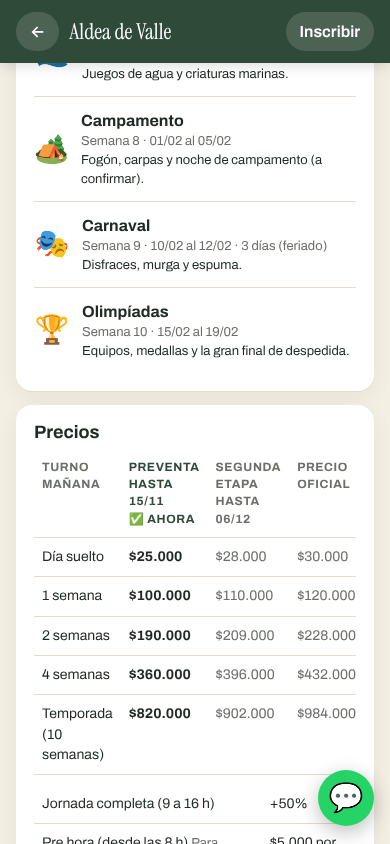
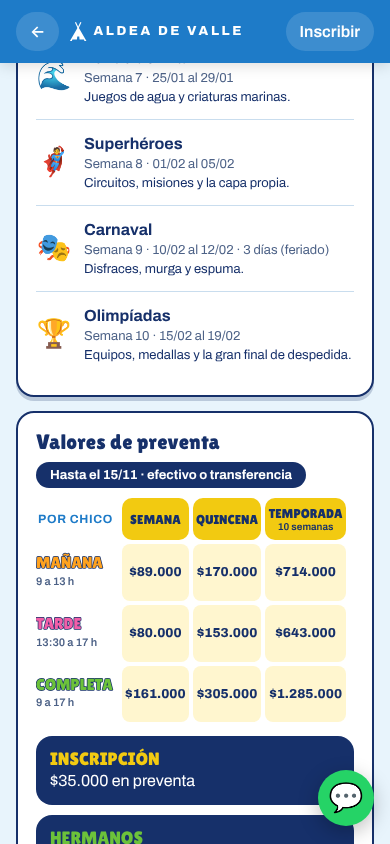
Escuela de Verano: valores y estética del folleto 2026-27
- Valores de preventa del folleto por turno (mañana, tarde y completa) en
  semana, quincena y temporada; inscripción $35.000 ($50.000 desde el
  16/11); hermanos 20% y 30%; seña = inscripción + 50%.
- Pre-hora, post-hora (solo mañana) y almuerzo (solo jornada completa).
- La seña congela el precio: sin seña al 16/11 pasa al precio regular.
- En preventa la transferencia vale igual que el efectivo.
- Estética de la campaña: azul pileta, tarjetas con borde marino, VERANO
  de colores, Lilita One y Archivo; Aldea de Valle × GLORIN y show de los
  viernes.

Claude-Session: https://claude.ai/code/session_01Pv3htfUX7DsSfM44mpFigY

diff --git a/escuela-verano/Index.html b/escuela-verano/Index.html
@@ -6,10 +6,14 @@
 <meta name="viewport" content="width=device-width, initial-scale=1, maximum-scale=1">
 <link rel="preconnect" href="https://fonts.googleapis.com">
 <link rel="preconnect" href="https://fonts.gstatic.com" crossorigin>
-<link href="https://fonts.googleapis.com/css2?family=Baloo+2:wght@600;700;800&family=Nunito:wght@400;600;700;800&display=swap" rel="stylesheet">
+<link href="https://fonts.googleapis.com/css2?family=Lilita+One&family=Archivo:wght@400;500;600;700;800&display=swap" rel="stylesheet">
 <style>
-  :root{ --f-titulo:'Baloo 2','Nunito',system-ui,sans-serif; --f-texto:'Nunito',system-ui,sans-serif; --w-titulo:700;
-         --c1:#2F4A38; --c2:#F2CA11; --crema:#F4EFE3; --tinta:#1F2A22; --gris:#6B6F68; --linea:#E3DCCB; --ok:#2E8B57; --mal:#C0392B; --aviso:#E08A00; --wa:#25D366; --r:16px; }
+  /* Estética de la campaña "Escuela de Verano 2026-27": azul pileta, azul marino, tarjetas blancas con borde marino
+     y los colores de VERANO (amarillo, coral, verde, naranja, rosa). Títulos en Lilita One, texto en Archivo. */
+  :root{ --f-titulo:'Lilita One','Archivo',system-ui,sans-serif; --f-texto:'Archivo',system-ui,sans-serif; --w-titulo:400;
+         --c1:#1E7BC8; --c2:#F2CA11; --marino:#16306A; --pileta1:#5CB9EE; --pileta2:#2B8BD6;
+         --amarillo:#F2CA11; --coral:#FF6B5B; --verde:#6CC23A; --naranja:#FFA21F; --rosa:#F25FA8;
+         --crema:#E8F4FC; --tinta:#16306A; --gris:#4D6287; --linea:#C9DDEE; --ok:#23884F; --mal:#C0392B; --aviso:#C77600; --wa:#25D366; --r:18px; }
   *{box-sizing:border-box}
   html,body{margin:0;background:var(--crema);color:var(--tinta);font:16px/1.45 var(--f-texto);-webkit-font-smoothing:antialiased}
   body{padding-bottom:84px}
@@ -24,12 +28,14 @@
   .top button,.top select{background:rgba(255,255,255,.14);color:#fff;border:0;border-radius:999px;padding:8px 14px;font-weight:600;cursor:pointer}
   .top select{max-width:150px}
   .top select option{color:#000}
-  .btn{display:inline-flex;align-items:center;justify-content:center;gap:8px;border:0;border-radius:999px;padding:13px 20px;font-weight:700;cursor:pointer;background:var(--c1);color:#fff;text-decoration:none;transition:transform .08s,opacity .15s}
+  .btn{display:inline-flex;align-items:center;justify-content:center;gap:8px;border:2px solid var(--marino);border-radius:999px;padding:12px 20px;font-weight:700;cursor:pointer;background:var(--c1);color:#fff;text-decoration:none;transition:transform .08s,opacity .15s;box-shadow:0 3px 0 var(--marino)}
+  .btn:active{box-shadow:0 1px 0 var(--marino);transform:translateY(2px)}
   .btn:active{transform:scale(.97)}
   .btn[disabled]{opacity:.5;pointer-events:none}
   .btn.acento{background:var(--c2);color:var(--c1)}
-  .btn.claro{background:#fff;color:var(--c1);border:1.5px solid var(--linea)}
-  .btn.wa{background:var(--wa);color:#fff}
+  .btn.claro{background:#fff;color:var(--marino);border:2px solid var(--marino)}
+  .btn.xs,.btn.sm{box-shadow:0 2px 0 var(--marino)}
+  .btn.wa{background:var(--wa);color:#fff;border-color:#14753a;box-shadow:0 3px 0 #14753a}
   .btn.mal{background:var(--mal)}
   .btn.full{width:100%}
   .btn.sm{padding:8px 14px;font-size:14px}
@@ -37,8 +43,8 @@
   .fila{display:flex;gap:10px;flex-wrap:wrap;align-items:center}
   .fila>*{flex:0 0 auto}
   .crece{flex:1 1 auto!important}
-  .card{background:#fff;border-radius:var(--r);padding:18px;box-shadow:0 1px 0 var(--linea),0 6px 22px rgba(31,42,34,.06);margin:14px 0}
-  .card h3{font-size:18px}
+  .card{background:#fff;border-radius:var(--r);padding:18px;border:2.5px solid var(--marino);box-shadow:0 4px 0 rgba(22,48,106,.22);margin:14px 0}
+  .card h3{font:var(--w-titulo) 21px/1.1 var(--f-titulo);letter-spacing:.01em}
   .muted{color:var(--gris)}
   .chico{font-size:13px}
   .chip{display:inline-flex;align-items:center;gap:4px;padding:4px 10px;border-radius:999px;background:var(--crema);font-size:13px;font-weight:600;max-width:100%;overflow-wrap:anywhere}
@@ -57,11 +63,43 @@
   .seg{display:flex;background:#fff;border:1.5px solid var(--linea);border-radius:999px;padding:4px;gap:4px}
   .seg button{flex:1;border:0;background:transparent;padding:9px 12px;border-radius:999px;font-weight:600;cursor:pointer;color:var(--gris)}
   .seg button.on{background:var(--c1);color:#fff}
-  .hero{background:var(--c1);color:#fff;padding:40px 16px 34px;position:relative;overflow:hidden}
-  .hero h1{font:var(--w-titulo) clamp(38px,9vw,64px)/1 var(--f-titulo)}
-  .hero h1 em{color:var(--c2)}
+  .hero{background:repeating-radial-gradient(circle at 85% 115%,rgba(255,255,255,.08) 0 26px,rgba(255,255,255,0) 26px 52px),linear-gradient(180deg,color-mix(in srgb,var(--c1) 70%,#fff),var(--c1));color:#fff;padding:40px 16px 34px;position:relative;overflow:hidden}
+  .hero h1{font:var(--w-titulo) clamp(38px,9vw,64px)/1 var(--f-titulo);color:#fff;-webkit-text-stroke:2px var(--marino);paint-order:stroke fill;text-shadow:0 4px 0 var(--marino);letter-spacing:.01em}
+  .hero h1 em{color:var(--c2);font-style:normal}
+  .titulo-borde{font:var(--w-titulo) 30px/1.05 var(--f-titulo);color:#fff;-webkit-text-stroke:2px var(--marino);paint-order:stroke fill;text-shadow:0 3px 0 var(--marino)}
+  .ceja{font:700 12px var(--f-texto);letter-spacing:.24em;text-transform:uppercase}
+  .verano{display:inline-flex;gap:0;font:var(--w-titulo) clamp(54px,15vw,96px)/1 var(--f-titulo);-webkit-text-stroke:3px var(--marino);paint-order:stroke fill;text-shadow:0 5px 0 var(--marino)}
+  .verano span:nth-child(1){color:var(--amarillo)}.verano span:nth-child(2){color:var(--coral)}.verano span:nth-child(3){color:#fff}
+  .verano span:nth-child(4){color:var(--verde)}.verano span:nth-child(5){color:var(--naranja)}.verano span:nth-child(6){color:var(--rosa)}
+  .temporada-pill{display:inline-block;background:var(--marino);color:#fff;border-radius:999px;padding:6px 18px;font:var(--w-titulo) 22px var(--f-titulo)}
+  .pildora{display:inline-block;background:#fff;color:var(--marino);border:2.5px solid var(--marino);border-radius:999px;padding:6px 14px;font:var(--w-titulo) 15px var(--f-titulo);text-transform:uppercase;letter-spacing:.02em}
+  .pildora.si{background:var(--amarillo)}
+  .turno-et{font:var(--w-titulo) 20px/1 var(--f-titulo);text-transform:uppercase;-webkit-text-stroke:1.5px var(--marino);paint-order:stroke fill}
+  .franja{border:2.5px solid var(--marino);border-radius:16px;padding:12px 16px;margin:12px 0;color:#fff;box-shadow:0 4px 0 rgba(22,48,106,.22)}
+  .franja.coral{background:var(--coral)}.franja.marino{background:var(--marino)}
+  .franja b.t{font:var(--w-titulo) 22px var(--f-titulo);text-transform:uppercase;-webkit-text-stroke:1.2px var(--marino);paint-order:stroke fill;margin-right:8px}
+  .info2{display:grid;grid-template-columns:1fr 1fr;gap:10px}
+  @media(max-width:420px){.info2{grid-template-columns:1fr}}
+  .info2>div{background:var(--marino);color:#fff;border-radius:16px;padding:12px 14px}
+  .info2 b{display:block;font:var(--w-titulo) 18px var(--f-titulo);text-transform:uppercase;color:var(--amarillo)}
+  table.precios{width:100%;border-collapse:separate;border-spacing:4px;font-variant-numeric:tabular-nums;margin:0 -4px}
+  table.precios th{background:var(--amarillo);color:var(--marino);border-radius:10px;padding:8px 2px;font:var(--w-titulo) 13px var(--f-titulo);text-transform:uppercase}
+  table.precios th small{display:block;font:600 10px var(--f-texto);text-transform:none}
+  table.precios td{background:#FFF6CF;border-radius:8px;padding:11px 2px;text-align:center;font-weight:800;color:var(--marino);font-size:13px;white-space:nowrap}
+  table.precios .turno-et{font-size:16px}
+  table.precios td.et{background:none;text-align:left;padding-left:0}
+  table.precios td.et small{display:block;font-weight:600;font-size:11px;color:var(--gris)}
+  .badge-preventa{margin:22px auto -6px;width:156px;height:156px;border-radius:50%;background:var(--amarillo);border:3px solid var(--marino);color:var(--marino);display:flex;flex-direction:column;align-items:center;justify-content:center;text-align:center;transform:rotate(-8deg);box-shadow:0 5px 0 var(--marino)}
+  .badge-preventa b{font:var(--w-titulo) 24px/1 var(--f-titulo)}
+  .badge-preventa i{font:var(--w-titulo) 34px/1 var(--f-titulo);font-style:normal;color:var(--coral);-webkit-text-stroke:1.5px var(--marino);paint-order:stroke fill}
+  .badge-preventa small{font:700 10px var(--f-texto);text-transform:uppercase;letter-spacing:.04em}
+  .pasos-res{display:grid;gap:10px;counter-reset:p}
+  .pasos-res div{display:flex;gap:12px;align-items:center;background:#fff;border:2.5px solid var(--marino);border-radius:14px;padding:10px 12px;font-weight:700}
+  .pasos-res span{flex:0 0 38px;height:38px;border-radius:50%;border:2.5px solid var(--marino);display:flex;align-items:center;justify-content:center;font:var(--w-titulo) 20px var(--f-titulo)}
+  .logo-aldea{display:inline-flex;align-items:center;gap:.45em;font:800 1em/1 var(--f-texto);letter-spacing:.2em;white-space:nowrap}
+  .logo-aldea svg{height:1.6em;width:auto;flex:0 0 auto}
   .hero p{max-width:560px;opacity:.9;font-size:17px}
-  .sol{position:absolute;right:-90px;top:-90px;width:200px;height:200px;border-radius:50%;background:var(--c2);opacity:.85}
+  .sol{display:none}
   .sedes{display:grid;grid-template-columns:1fr 1fr;gap:14px;margin-top:-22px;position:relative}
   @media(max-width:640px){.sedes{grid-template-columns:1fr}}
   .sede{background:#fff;border-radius:20px;overflow:hidden;box-shadow:0 10px 30px rgba(0,0,0,.08);display:flex;flex-direction:column}
@@ -172,6 +210,7 @@ const LOGO_ALDEA = '<svg viewBox="0 0 100 100" role="img" aria-label="Aldea de V
 const LOGOS_ANCHOS = {
[1 lines of base64/hex data omitted]
 };
+const CARPA = '<svg viewBox="20 14 60 68" aria-hidden="true"><path d="M50 33 L77 79 L70.5 79 L69 74.5 L54.5 74.5 L53.5 65 L47 65 L46 74.5 L31 74.5 L29.5 79 L23 79 Z" fill="currentColor"/><path d="M39.4 18.6 L42.9 17 L52.5 38 L49 39.6 Z" fill="currentColor"/><path d="M60.6 18.6 L57.1 17 L47.5 38 L51 39.6 Z" fill="currentColor"/></svg>';
[1 lines of base64/hex data omitted]
 const LS = {
   get(k, d) { try { const v = localStorage.getItem('ev_' + k); return v == null ? d : JSON.parse(v); } catch (e) { return d; } },
@@ -197,11 +236,11 @@ function logoSede(id, tam, claro) {
   const ancho = !s.logo && LOGOS_ANCHOS[id];
   if (ancho) return `<img class="logo-ancho" src="${claro ? ancho.color : ancho.blanco}" alt="Logo de ${esc(s.nombre)}" style="height:${tam || 30}px">`;
   if (s.logo) return `<span class="logo"${st}><img src="${esc(s.logo)}" alt="Logo de ${esc(s.nombre)}"></span>`;
-  if (id === 'aldea') return `<span class="logo"${st}>${LOGO_ALDEA}</span>`;
+  if (id === 'aldea') return `<span class="logo-aldea" style="color:${claro ? 'var(--marino)' : '#fff'};font-size:${Math.round((tam || 30) * 0.42)}px">${CARPA}<span>ALDEA DE VALLE</span></span>`;
   const ini = s.nombre.split(' ').filter(w => w.length > 2).map(w => w[0]).join('').slice(0, 2).toUpperCase();
   return `<span class="logo logo-ini"${(st ? st.slice(0, -1) + ';' : ' style="') + 'background:' + s.color + ';color:' + s.acento + (tam ? ';font-size:' + Math.round(tam / 2.6) + 'px' : '')}">${esc(ini)}</span>`;
 }
-const nombreBarra = id => LOGOS_ANCHOS[id] && !(sede(id) || {}).logo ? '' : esc(sede(id).nombre);   // si el logo ya dice el nombre, no se repite
+const nombreBarra = id => (LOGOS_ANCHOS[id] || id === 'aldea') && !(sede(id) || {}).logo ? '' : esc(sede(id).nombre);   // si el logo ya dice el nombre, no se repite
 function pieGlorin() {
   return PUB.glorin ? `<a class="glorin" href="${esc(PUB.glorin.url)}" target="_blank" rel="noopener"><img src="${LOGO_GLORIN}" alt="GLORIN Animaciones"><span>¿Cumpleaños o evento?<br><b>${esc(PUB.glorin.detalle)}</b></span></a>` : '';
 }
@@ -239,7 +278,7 @@ async function conBoton(btn, fn) {
 }
 function tema(id) {
   const s = id && sede(id);
-  document.documentElement.style.setProperty('--c1', s ? s.color : '#2F4A38');
+  document.documentElement.style.setProperty('--c1', s ? s.color : '#1E7BC8');
   document.documentElement.style.setProperty('--c2', s ? s.acento : '#F2CA11');
 }
 function copiar(txt) { (navigator.clipboard ? navigator.clipboard.writeText(txt) : Promise.reject()).then(() => toast('Copiado ✓')).catch(() => prompt('Copiá esto:', txt)); }
@@ -277,7 +316,13 @@ function arrancar() {
 
 /* ================= FAMILIAS · público ================= */
 function etapaActual(s) { const E = s.precios.etapas; return E.find(e => !e.hasta || PUB.hoy <= e.hasta) || E[E.length - 1]; }
-function precioDesde(s) { return etapaActual(s).semanas[1]; }
+function precioDesde(s) { const T = etapaActual(s).turnos; return Math.min(...Object.keys(T).map(k => T[k].semana)); }
+const descHermanos = s => { const h = s.precios.descuentoHermanos; return Array.isArray(h) ? h : [0, h || 0]; };
+function tablaPrecios(s, E) {
+  return `<div class="scroll-x"><table class="precios"><tr><th style="background:none;text-align:left;font:700 12px var(--f-texto);letter-spacing:.06em;color:var(--c1)">POR CHICO</th><th>Semana</th><th>Quincena</th><th>Temporada<small>${s.semanas.length} semanas</small></th></tr>
+    ${s.precios.turnos.map(t => { const v = E.turnos[t.id] || {}; return `<tr><td class="et"><span class="turno-et" style="color:${t.color}">${esc(t.nombre)}</span><small>${esc(t.horario)}</small></td>
+      <td>${pesos(v.semana)}</td><td>${pesos(v.quincena)}</td><td>${pesos(v.temporada)}</td></tr>`; }).join('')}</table></div>`;
+}
 
 function vInicio() { vElegirSede(); }
 function vElegirSede(destino) {
@@ -285,12 +330,14 @@ function vElegirSede(destino) {
   const s = PUB.sedes;
   pintar(`
   <header class="top"><div class="marca">☀ ${esc(PUB.marca)} <small>${esc(PUB.temporada)}</small></div></header>
-  <section class="hero" style="padding-bottom:46px"><div class="sol"></div><div class="wrap" style="position:relative">
-    <h1>¿De qué escuela<br><em>de verano sos?</em></h1>
-    <p>${destino === 'inscribir' ? 'Elegí dónde querés inscribir a tu hijo.' : 'Elegí tu sede para entrar. Desde ahí sigue cada uno: familias, equipo y administración.'}</p>
+  <section class="hero" style="padding-bottom:50px;text-align:center"><div class="wrap" style="position:relative">
+    <div class="titulo-borde" style="font-size:clamp(30px,8vw,46px)">ESCUELA DE</div>
+    <div class="verano" aria-label="Verano"><span>V</span><span>E</span><span>R</span><span>A</span><span>N</span><span>O</span></div>
+    <div style="margin-top:10px"><span class="temporada-pill">${esc(PUB.temporada.replace('-20', '–'))}</span></div>
+    <p style="margin:14px auto 0;font-weight:700">${destino === 'inscribir' ? '¿En qué escuela querés inscribir a tu hijo?' : '¿De qué escuela de verano sos?'}</p>
   </div></section>
   <div class="wrap">
-    <div class="eleccion">${s.map(x => `<button style="--c:${x.color}" onclick="elegirSede('${x.id}','${destino || ''}')">${logoSede(x.id, 72, true)}
+    <div class="eleccion">${s.map(x => `<button style="--c:${x.color}" onclick="elegirSede('${x.id}','${destino || ''}')">${x.id === 'aldea' && !x.logo ? `<span class="logo" style="width:72px;height:72px;background:${x.color};color:#fff;padding:13px;border:2.5px solid var(--marino)">${CARPA}</span>` : logoSede(x.id, 72, true)}
       <span><b>${esc(x.nombre)}</b><span class="muted chico">${esc(x.direccion)}</span></span><span class="flecha" aria-hidden="true">→</span></button>`).join('')}</div>
   </div>
   <div class="pie">${pieGlorin()}</div>`);
@@ -302,14 +349,19 @@ function vPuerta(id) {
   const E = etapaActual(s);
   pintar(`
   <header class="top">${logoSede(id)}<div class="marca">${nombreBarra(id)}</div><button onclick="vElegirSede()">Cambiar</button></header>
-  <section class="hero" style="padding-bottom:28px"><div class="sol"></div><div class="wrap" style="position:relative;display:flex;gap:16px;align-items:center">
-    ${LOGOS_ANCHOS[id] && !s.logo ? `<div>${logoSede(id, 120)}<p style="margin:10px 0 0">` : `${logoSede(id, 76)}<div><h1 style="font-size:clamp(34px,8vw,56px)">${esc(s.nombre)}</h1><p style="margin:4px 0 0">`}Escuela de verano · del ${fCorta(s.inicio)} al ${fCorta(s.fin)}</p></div>
+  <section class="hero" style="padding-bottom:${E.hasta ? 70 : 30}px"><div class="wrap" style="position:relative">
+    <div class="fila" style="align-items:center;gap:8px">${LOGOS_ANCHOS[id] && !s.logo ? logoSede(id, 90) : logoSede(id, 32)}${s.conGlorin ? `<b style="font-size:18px">×</b><img src="${LOGO_GLORIN}" alt="GLORIN Animaciones" style="width:92px">` : ''}</div>
+    <h1 style="margin-top:18px">UN VERANO<br>EN ${esc((s.nombre.split(' ').pop() === 'Valle' ? 'Aldea' : s.nombre.split(' ').pop()).toUpperCase())}</h1>
+    <p style="margin:6px 0 0;font-weight:700">${fLarga(s.inicio).replace(/^\S+ /, '')} al ${fLarga(s.fin).replace(/^\S+ /, '')} · de ${PUB.edadMin} a ${PUB.edadMax} años</p>
+    ${s.conGlorin ? '<p class="chico" style="margin:2px 0 0;font-weight:600;opacity:.95">Aldea de Valle × GLORIN Animaciones</p>' : ''}
+    ${E.hasta ? `<div class="badge-preventa"><b>${esc(E.nombre.toUpperCase())}</b><small>hasta el ${fCorta(E.hasta)}</small>${(s.precios.etapas.length > 1 && E === s.precios.etapas[0]) ? '<i>−15%</i>' : ''}<small>+ inscripción ${pesos(E.inscripcion)}</small></div>` : ''}
   </div></section>
   <div class="wrap">
     <div class="card" style="margin-top:16px;border:2px solid var(--c1)">
       <h2 class="serif" style="font-size:30px;margin:0">Inscribí a tu hijo</h2>
-      <p class="muted" style="margin:6px 0 12px">En 4 pasos desde el celular. Ves el precio al instante y pagás la seña en efectivo (más barato), por transferencia o con Mercado Pago.</p>
-      ${E.hasta ? `<p class="chip aviso" style="margin:0 0 12px">⏰ ${esc(E.nombre)}: precios hasta el ${fCorta(E.hasta)}</p>` : ''}
+      ${(s.actividades || []).length ? `<div class="fila" style="gap:6px;margin:10px 0 4px">${s.actividades.map((a, i) => `<span class="pildora ${i ? '' : 'si'}" style="font-size:13px;padding:4px 10px">${esc(a)}</span>`).join('')}</div>` : ''}
+      ${s.destacado ? `<div class="franja coral"><b class="t">${esc(s.destacado[0])}</b>${esc(s.destacado[1])}</div>` : ''}
+      <p class="muted" style="margin:6px 0 12px">Un formulario y listo: ves el precio al instante y reservás con la inscripción + la seña del ${s.precios.senaPct}%.${E.hasta ? ' <b>La seña congela tu precio de ' + esc(E.nombre.toLowerCase()) + '.</b>' : ''}</p>
       <button class="btn full acento" onclick="empezar('${id}')">Inscribir a mi hijo</button>
     </div>
     <h2 class="serif" style="font-size:30px;margin:26px 0 10px">¿Quién sos?</h2>
@@ -343,7 +395,7 @@ function vSede(id) {
   pintar(`
   <header class="top"><button onclick="vPuerta('${id}')">←</button>${logoSede(id)}<div class="marca">${nombreBarra(id)}</div><button onclick="empezar('${id}')">Inscribir</button></header>
   <section class="hero" style="padding-bottom:26px"><div class="sol"></div><div class="wrap" style="position:relative">
-    <h1>${esc(s.nombre)}</h1><p>${esc(s.bajada)}</p>
+    <div class="ceja">Escuela de verano ${esc(PUB.temporada.replace('-20', '–'))}</div><h1 style="margin-top:8px">${esc(s.nombre.toUpperCase())}</h1><p>${esc(s.bajada)}</p>
     <p class="chico">📍 ${esc(s.direccion)}<br>📅 Del ${fLarga(s.inicio)} al ${fLarga(s.fin)} · lunes a viernes</p>
     <div class="fila"><button class="btn acento" onclick="empezar('${id}')">Inscribirme</button>
     <a class="btn wa" href="${wa(s.whatsapp, '¡Hola! Quiero consultar por la escuela de verano de ' + s.nombre + '.')}" target="_blank">💬 WhatsApp</a></div>
@@ -363,23 +415,24 @@ function vSede(id) {
         ${w.tematica && w.tematica.descripcion ? `<div class="chico">${esc(w.tematica.descripcion)}</div>` : ''}</div>
         ${w.hasta < hoy ? '<span class="chip">Terminó</span>' : ''}</div>`).join('')}
     </div>
-    <div class="card"><h3>Precios</h3>
-      ${(() => { const EA = etapaActual(s), vis = P.etapas.filter(e => !e.hasta || e.hasta >= hoy), nS = s.semanas.length;
-        const fila = (t, f) => `<tr><td>${t}</td>${vis.map(e => `<td class="derecha" style="${e === EA ? 'font-weight:700' : 'color:var(--gris)'}">${pesos(f(e))}</td>`).join('')}</tr>`;
-        return `<div class="scroll-x"><table class="t"><tr><th>Turno mañana</th>${vis.map(e => `<th class="derecha" style="${e === EA ? 'color:var(--c1)' : ''}">${esc(e.nombre)}${e.hasta ? '<br>hasta ' + fCorta(e.hasta) : ''}${e === EA ? '<br>✅ ahora' : ''}</th>`).join('')}</tr>
-          ${fila('Día suelto', e => e.dia)}${[1, 2, 4].map(n => fila(n + (n > 1 ? ' semanas' : ' semana'), e => e.semanas[n])).join('')}${fila('Temporada (' + nS + ' semanas)', e => e.semanas[nS] || e.semanas[e.semanas.length - 1])}</table></div>`; })()}
-      <table class="t" style="margin-top:10px">
-        ${P.turnos.filter(t => t.factor !== 1).map(t => `<tr><td>${esc(t.nombre)}</td><td class="derecha">+${Math.round((t.factor - 1) * 100)}%</td></tr>`).join('')}
-        ${P.extras.map(e => `<tr><td>${esc(e.nombre)} <span class="muted chico">${esc(e.detalle || '')}</span></td><td class="derecha">${pesos(e.precioDia)} por día</td></tr>`).join('')}
-      </table>
-      <div class="fila" style="margin-top:12px">
-        ${P.descuentoHermanos ? `<span class="chip ok">👫 Hermanos ${P.descuentoHermanos}% off</span>` : ''}
-        ${P.descuentoRenovacion ? `<span class="chip ok">🔁 Renovando ${P.descuentoRenovacion}% off</span>` : ''}
-        ${etapaActual(s).hasta ? `<span class="chip aviso">⏰ ${esc(etapaActual(s).nombre)}: este precio vale hasta el ${fCorta(etapaActual(s).hasta)}</span>` : ''}
+    <div class="card"><h3>${etapaActual(s).hasta ? 'Valores de ' + esc(etapaActual(s).nombre.toLowerCase()) : 'Valores'}</h3>
+      ${etapaActual(s).hasta ? `<p style="margin:0 0 6px"><span class="temporada-pill" style="font:700 13px var(--f-texto);padding:6px 14px">Hasta el ${fCorta(etapaActual(s).hasta)} · efectivo${PUB.recargo ? '' : ' o transferencia'}</span></p>` : ''}
+      ${tablaPrecios(s, etapaActual(s))}
+      <div class="info2" style="margin-top:10px">
+        <div><b>Inscripción</b>${pesos(etapaActual(s).inscripcion)}${etapaActual(s).hasta ? ' en ' + esc(etapaActual(s).nombre.toLowerCase()) : ''}</div>
+        <div><b style="color:var(--verde)">Hermanos</b>${descHermanos(s).slice(1).map((p, i) => p + '% ' + (i ? 'del ' + (i + 2) + '.º en adelante' : 'al 2.º')).join(' · ')}</div>
       </div>
-      <p class="banner" style="margin:12px 0 8px">💵 <b>Precios en efectivo.</b>${PUB.recargo ? ` Por transferencia o Mercado Pago: +${PUB.recargo}%.` : ''}</p>
-      <p class="muted chico">Los días sueltos nunca cuestan más que la semana completa. Se reserva el lugar con una seña del ${P.senaPct}%.</p>
-      <button class="btn full" onclick="empezar('${id}')">Calcular mi presupuesto</button>
+      ${P.extras.map(e => `<div class="franja marino" style="display:flex;justify-content:space-between;gap:10px;flex-wrap:wrap"><b style="font:var(--w-titulo) 17px var(--f-titulo);text-transform:uppercase;color:var(--rosa)">${esc(e.nombre)}</b><span>${e.precioSemana ? 'desde ' + pesos(e.precioSemana) + ' por semana' : pesos(e.precioDia) + ' por día'}${e.turnos ? ' · ' + e.turnos.map(t => (P.turnos.find(x => x.id === t) || {}).nombre).join(' / ').toLowerCase() : ''}</span></div>`).join('')}
+      ${etapaActual(s).hasta && P.etapas[P.etapas.indexOf(etapaActual(s)) + 1] ? `<div class="franja coral" style="text-align:center"><b class="t" style="display:block;margin:0">Desde el ${fCorta(sumarDias(etapaActual(s).hasta, 1))} los valores aumentan</b>y la inscripción pasa a ${pesos(P.etapas[P.etapas.indexOf(etapaActual(s)) + 1].inscripcion)}</div>` : ''}
+      ${PUB.recargo ? `<p class="banner" style="margin:12px 0 8px">💵 <b>Precios en efectivo.</b> Por transferencia o Mercado Pago: +${PUB.recargo}%.</p>` : ''}
+      <p class="muted chico">Los días sueltos nunca cuestan más que la semana completa.</p>
+    </div>
+    <div class="card"><h3>Cómo reservar</h3>
+      <div class="pasos-res"><div><span style="background:var(--amarillo)">1</span>Completá el formulario de inscripción.</div>
+        <div><span style="background:var(--naranja)">2</span>Pagá la inscripción y la seña del ${P.senaPct}%${etapaActual(s).hasta ? ' antes del ' + fCorta(etapaActual(s).hasta) : ''}.</div>
+        <div><span style="background:var(--verde)">3</span>Aboná el saldo antes de empezar.</div></div>
+      ${etapaActual(s).hasta ? `<div class="franja marino"><b style="font:var(--w-titulo) 18px var(--f-titulo);color:var(--amarillo);display:block">LA SEÑA CONGELA TU PRECIO</b>Queda el valor de ${esc(etapaActual(s).nombre.toLowerCase())} del paquete reservado. Si después sumás semanas, se pagan al valor vigente.</div>` : ''}
+      <button class="btn full acento" style="margin-top:8px" onclick="empezar('${id}')">Inscribite acá</button>
     </div>
     <div class="card"><h3>¿Todavía no te decidís?</h3>
       <p class="muted">Dejanos tu mail y te avisamos temáticas, novedades y cuándo se llenan los cupos.</p>
@@ -410,13 +463,21 @@ function htmlPlan() {
       <div class="dias">${dias.map(d => { const ok = w.dias.includes(d) && d >= hoy; const on = p.dias.includes(d);
         return `<button ${ok ? '' : 'disabled'} class="${on ? 'on' : ''}" onclick="plTogg('dias','${d}')">${DSEM[fecha(d).getDay()]}<br>${fecha(d).getDate()}</button>`; }).join('')}</div></div>`;
   }).join('');
+  const E = etapaActual(s), T = s.precios.turnos;
+  if (!T.some(t => t.id === p.turno)) p.turno = T[0].id;
+  const extrasOk = e => !e.turnos || e.turnos.includes(p.turno);
+  p.extras = p.extras.filter(id => extrasOk(s.precios.extras.find(e => e.id === id) || {}));
   return `
+    <label style="margin-top:0">Horario</label>
+    <div class="fila" style="gap:8px">${T.map(t => { const v = E.turnos[t.id] || {}; return `<button class="opcion ${p.turno === t.id ? 'on' : ''}" style="flex:1 1 100px;margin:0;flex-direction:column;align-items:center;gap:2px;text-align:center" onclick="plSet('turno','${t.id}')">
+      <span class="turno-et" style="color:${t.color}">${esc(t.nombre)}</span><span class="chico" style="font-weight:700">${esc(t.horario)}</span><span class="muted chico">semana ${pesos(v.semana)}</span></button>`; }).join('')}</div>
+    <label>¿Cuándo viene?</label>
     <div class="seg"><button class="${p.modalidad === 'semanas' ? 'on' : ''}" onclick="plSet('modalidad','semanas')">Por semana</button><button class="${p.modalidad === 'dias' ? 'on' : ''}" onclick="plSet('modalidad','dias')">Días sueltos</button></div>
     ${p.modalidad === 'semanas' ? `<div class="fila" style="margin-top:10px"><button class="btn xs claro" onclick="plTodas()">Elegir todas las que quedan</button>${p.semanas.length ? `<button class="btn xs claro" onclick="plSet('semanas',[])">Borrar</button>` : ''}</div>` : `<p class="muted chico">Tocá los días que viene. Si elegís muchos de una misma semana, nunca pagás más que la semana completa.</p>`}
     ${semanasHtml}
-    <label>Horario</label>
-    ${s.precios.turnos.map(t => `<label class="opcion ${p.turno === t.id ? 'on' : ''}"><input type="radio" name="turno" ${p.turno === t.id ? 'checked' : ''} onchange="plSet('turno','${t.id}')"><div><b>${esc(t.nombre)}</b>${t.factor !== 1 ? `<div class="muted chico">+${Math.round((t.factor - 1) * 100)}%</div>` : ''}</div></label>`).join('')}
-    ${s.precios.extras.length ? '<label>Extras</label>' + s.precios.extras.map(e => `<label class="opcion ${p.extras.includes(e.id) ? 'on' : ''}"><input type="checkbox" ${p.extras.includes(e.id) ? 'checked' : ''} onchange="plTogg('extras','${e.id}')"><div><b>${esc(e.nombre)}</b> · ${pesos(e.precioDia)} por día<div class="muted chico">${esc(e.detalle || '')}</div></div></label>`).join('') : ''}`;
+    ${s.precios.extras.length ? '<label>Opcionales</label>' + s.precios.extras.map(e => { const ok = extrasOk(e);
+      return `<label class="opcion ${p.extras.includes(e.id) ? 'on' : ''} ${ok ? '' : 'off'}"><input type="checkbox" ${p.extras.includes(e.id) ? 'checked' : ''} ${ok ? '' : 'disabled'} onchange="plTogg('extras','${e.id}')"><div><b>${esc(e.nombre)}</b> · ${e.precioSemana && p.modalidad === 'semanas' ? pesos(e.precioSemana) + ' por semana' : pesos(e.precioDia) + ' por día'}
+        <div class="muted chico">${ok ? esc(e.detalle || '') : 'Solo con horario ' + e.turnos.map(t => (T.find(x => x.id === t) || {}).nombre).join(' o ').toLowerCase()}</div></div></label>`; }).join('') : ''}`;
 }
 function plSet(k, v) { PL.plan[k] = v; PL.alCambiar(); }
 function plTogg(k, v) { const a = PL.plan[k]; const i = a.indexOf(v); i >= 0 ? a.splice(i, 1) : a.push(v); PL.alCambiar(); }
@@ -425,16 +486,16 @@ function plCotizar() { return cotizar(sede(PL.sede), PL.plan, Math.max(1, PL.can
 function htmlPresu(q, texto, accion) {
   const cant = Math.max(1, PL.cant);
   return `<div class="presu"><div class="crece"><small>${q.cantDias ? esc(q.detalleBase) + ' · ' + cant + (cant > 1 ? ' chicos' : ' chico') : 'Elegí cuándo viene'}</small>
-    <div class="monto">${pesos(q.total)} <small style="display:inline;font-size:12px">en efectivo</small></div>${q.cantDias && PUB.recargo ? `<small>${pesos(conTransf(q.total))} por transferencia</small>` : ''}</div>
+    <div class="monto">${q.cantDias ? pesos(q.total) + ' <small style="display:inline;font-size:12px">en efectivo</small>' : '—'}</div>${q.cantDias && PUB.recargo ? `<small>${pesos(conTransf(q.total))} por transferencia</small>` : ''}</div>
     <button class="btn acento" ${q.errores.length ? 'disabled' : ''} onclick="${accion}">${texto}</button></div>`;
 }
 function detallePresu(q, nombres) {
   return `<table class="t">${q.porChico.map((c, i) => `<tr><td>${esc(nombres[i] || 'Chico ' + (i + 1))}<div class="muted chico">${esc(q.detalleBase)} · ${esc(q.turno.nombre)}${q.extras.length ? ' · ' + q.extras.map(e => esc(e.nombre)).join(', ') : ''}${c.motivos.length ? '<br>Descuento: ' + esc(c.motivos.join(' + ')) : ''}</div></td>
-    <td class="derecha">${c.descuento ? `<s class="muted">${pesos(c.subtotal)}</s><br>` : ''}<b>${pesos(c.total)}</b></td></tr>`).join('')}
+    <td class="derecha">${c.descuento ? `<s class="muted">${pesos(c.subtotal)}</s><br>` : ''}<b>${pesos(c.total - (c.matricula || 0))}</b>${c.matricula ? `<br><span class="muted chico">+ inscripción ${pesos(c.matricula)}</span>` : ''}</td></tr>`).join('')}
     <tr><td><b>💵 Total en efectivo</b></td><td class="derecha"><b style="font-size:20px">${pesos(q.total)}</b></td></tr>
     ${PUB.recargo ? `<tr><td>Por transferencia o Mercado Pago (+${PUB.recargo}%)</td><td class="derecha">${pesos(conTransf(q.total))}</td></tr>` : ''}
-    <tr><td>Seña para reservar (${q.senaPct}%)</td><td class="derecha"><b>${pesos(q.sena)}</b>${PUB.recargo ? `<br><span class="muted chico">${pesos(conTransf(q.sena))} por transferencia</span>` : ''}</td></tr></table>
-    ${q.etapa && q.etapa.hasta ? `<p class="chip aviso" style="margin:8px 0 0">⏰ ${esc(q.etapa.nombre)}: este precio vale si te inscribís hasta el ${fCorta(q.etapa.hasta)}${q.proxima ? ', después pasa a ' + esc(q.proxima.nombre.toLowerCase()) : ''}</p>` : ''}
+    <tr><td>Para reservar: ${q.matricula ? 'inscripción + ' : ''}seña del ${q.senaPct}%</td><td class="derecha"><b>${pesos(q.sena)}</b>${PUB.recargo ? `<br><span class="muted chico">${pesos(conTransf(q.sena))} por transferencia</span>` : ''}</td></tr></table>
+    ${q.etapa && q.etapa.hasta ? `<p class="chip aviso" style="margin:8px 0 0">⏰ ${esc(q.etapa.nombre)}: pagando la seña antes del ${fCorta(q.etapa.hasta)} congelás este precio${q.proxima ? '. Después rige el ' + esc(q.proxima.nombre.toLowerCase()) + ' y la inscripción pasa a ' + pesos(q.proxima.inscripcion) : ''}.</p>` : ''}
     <p class="muted chico">Del ${fLarga(q.dias[0] || '')} al ${fLarga(q.dias[q.dias.length - 1] || '')} · ${q.cantDias} días</p>`;
 }
 
@@ -454,7 +515,7 @@ function vWizard() {
   const titulos = ['¿Cuándo viene?', '¿Quién viene?', 'Tus datos', 'Revisá y confirmá'];
   let cuerpo = '';
   if (W.paso === 1) cuerpo = htmlPlan();
-  if (W.paso === 2) cuerpo = W.chicos.map((c, i) => htmlChico(c, i)).join('') + `<button class="btn claro full" onclick="leerChicos();W.chicos.push(chicoVacio());guardarW();vWizard()">+ Sumar otro hijo/a ${s.precios.descuentoHermanos ? '(' + s.precios.descuentoHermanos + '% off)' : ''}</button>`;
+  if (W.paso === 2) cuerpo = W.chicos.map((c, i) => htmlChico(c, i)).join('') + `<button class="btn claro full" onclick="leerChicos();W.chicos.push(chicoVacio());guardarW();vWizard()">+ Sumar otro hijo/a ${descHermanos(s)[Math.min(W.chicos.length, descHermanos(s).length - 1)] ? '(' + descHermanos(s)[Math.min(W.chicos.length, descHermanos(s).length - 1)] + '% off)' : ''}</button>`;
   if (W.paso === 3) cuerpo = htmlAdulto(W.adulto);
   if (W.paso === 4) {
     const q = plCotizar();
@@ -470,7 +531,7 @@ function vWizard() {
   }
   const q = plCotizar();
   pintar(`
-  <header class="top"><button onclick="${W.paso > 1 ? 'pasoAtras()' : `vPuerta('${W.sede}')`}">←</button>${logoSede(W.sede)}<div class="marca">${nombreBarra(W.sede)} <small>paso ${W.paso} de 4</small></div><button onclick="if(confirm('¿Borrar todo lo cargado?')){LS.del('borrador');vPuerta('${W.sede}')}">Borrar</button></header>
+  <header class="top"><button onclick="${W.paso > 1 ? 'pasoAtras()' : `vPuerta('${W.sede}')`}">←</button>${logoSede(W.sede)}<div class="marca">${nombreBarra(W.sede) ? nombreBarra(W.sede) + ' <small>paso ' + W.paso + ' de 4</small>' : ''}</div><button onclick="if(confirm('¿Borrar todo lo cargado?')){LS.del('borrador');vPuerta('${W.sede}')}">Borrar</button></header>
   <div class="wrap">
     <div class="pasos">${[1, 2, 3, 4].map(n => `<span class="${n <= W.paso ? 'on' : ''}"></span>`).join('')}</div>
     <h2 class="serif" style="font-size:34px">${titulos[W.paso - 1]}</h2>

diff --git a/escuela-verano/LEEME.md b/escuela-verano/LEEME.md
@@ -74,7 +74,7 @@ Tiene **tres puertas** con el mismo link:
 - **Aldea de Valle:** el logo de la web de Aldea.
 - **Colonia Dewey:** ya está cargado, en sus dos versiones (en `logos/`): en color sobre fondo claro (la tarjeta para elegir escuela) y en blanco sobre las barras de la sede. La sede usa los colores del logo, rojo y celeste. Si algún día cambia, cada administración sube el nuevo desde **Administración → Ajustes → Logo**.
 - **GLORIN Animaciones:** aparece al pie, con link a las reservas de cumpleaños.
-- **Tipografía:** Baloo 2 en los títulos y Nunito en el texto. Se cambia en dos variables al principio de `Index.html` (`--f-titulo` y `--f-texto`).
+- **Tipografía:** Lilita One en los títulos y Archivo en el texto, como el folleto. Se cambia en dos variables al principio de `Index.html` (`--f-titulo` y `--f-texto`).
 
 ## Qué hace
 
@@ -94,24 +94,37 @@ Tiene **tres puertas** con el mismo link:
   - **renovar** o sumar días en un minuto
 - Formulario para “quiero recibir novedades”, para las familias que todavía no se deciden.
 
-### Datos de la temporada 2026-27 (definidos por Fausto, 23/10/2026)
-- **Fechas:** del lunes 14/12 al viernes 19/2, 10 semanas de lunes a viernes. No hay escuela el 25/12, el 1/1 ni en Carnaval (8 y 9/2).
-- **Campamento:** la semana del 11 al 15 de enero (semana 5), a mitad de mes, en las dos sedes. Las demás temáticas se cambian desde Administración → Contenido.
-- **Horarios para las familias:**
-  - Mañana, de 9 a 13 h.
-  - Jornada completa, de 9 a 16 h.
-  - Pre hora desde las 8 h, que se cobra como extra.
-  - Almuerzo, a **$10.000 por día**.
-- **Precio en 3 etapas:** **preventa**, después **segunda etapa** y después **precio oficial**. La familia paga el precio de la etapa del día en que se inscribe, y la web muestra hasta cuándo vale. ⚠ Los montos cargados son **de ejemplo**: se cambian en `CONFIG → precios → etapas` de cada sede.
-- **Grupos de 30 chicos.** Si un grupo se llena, la inscripción **entra igual** y la administración recibe un aviso: con un botón se abre otro grupo de la misma edad (Aventureros B, por ejemplo) y las siguientes inscripciones van solas ahí.
-- **Colonia Dewey:** Etruria 7755, Villa Rivera Indarte. El **alias de cada sede está a confirmar**. Mientras esté vacío, la web le dice a la familia que le pasamos los datos por WhatsApp.
-- **Equipo:**
-  - Horario de 9 a 13 h, con pre hora desde las 8 para algunos, y turno tarde de 13 a 16 h, de lunes a viernes.
-  - Se **paga por quincena**, del 1 al 15 y del 16 a fin de mes. **Los guardavidas cobran solo por hora.**
-  - Profes y auxiliares pueden cobrar **fijo por quincena** o **por día**. Por día, **se pagan los feriados no trabajados** en los que les tocaba trabajar.
-  - En la primera y la última quincena, que la temporada no cubre entera, el fijo se paga proporcional a los días hábiles.
-  - Los pagos se cargan a la quincena que corresponde aunque se hagan después.
-- **Fotos y videos obligatorios:** un profe o auxiliar **no puede marcar la salida** si ese día no subió al menos una foto o un video de los chicos y las actividades. Los videos se suben en partes directo a Drive (hasta 300 MB). Todo queda ordenado en `Escuela de Verano — Fotos / <sede> / <día>`, para tener material actualizado para redes.
+### Datos de la temporada 2026-27 (folleto "Escuela de Verano ALDEA", 2/11/2026)
+- **Fechas:** del lunes 14/12 al viernes 19/2: 10 semanas, de lunes a viernes. No hay escuela el 25/12, el 1/1 ni en Carnaval (8 y 9/2).
+- **Edades:** de 3 a 13 años, en grupos por edad, cada uno con sus profes. Hasta 30 chicos por grupo; si un grupo se llena, la inscripción entra igual y se abre otro.
+- **Campamento:** la semana del 11 al 15 de enero (semana 5), en las dos sedes.
+- **Aldea de Valle × GLORIN Animaciones.** Todos los días: natación y pileta, karate, patín, gimnasia, fútbol, arte, música y naturaleza. **Viernes: día temático con show de GLORIN.**
+- **Horarios:** Mañana de 9 a 13 h · Tarde de 13:30 a 17 h · Completa de 9 a 17 h.
+- **Opcionales:**
+  - Pre-hora (8 a 9 h): desde $30.000 por semana.
+  - Post-hora (13 a 14 h, solo turno mañana): desde $30.000 por semana.
+  - Almuerzo: $10.000 por día, solo jornada completa.
+- **Valores de preventa por chico** (hasta el 15/11, en efectivo o transferencia):
+
+| | Semana | Quincena | Temporada (10 semanas) |
+|---|---|---|---|
+| Mañana | $89.000 | $170.000 | $714.000 |
+| Tarde | $80.000 | $153.000 | $643.000 |
+| Completa | $161.000 | $305.000 | $1.285.000 |
+
+  - Las semanas que no son quincena se arman como quincenas + semana, y nunca superan el valor de la temporada.
+  - **Inscripción:** $35.000 en preventa; desde el 16/11 pasa a $50.000. Se cobra una vez por chico en la temporada.
+  - **Hermanos:** 20% al 2.º y 30% del 3.º en adelante (no se aplica sobre la inscripción).
+  - **Cómo reservar:**
+    1. Completar el formulario.
+    2. Pagar la inscripción y la seña del 50% antes del 15/11.
+    3. Pagar el saldo antes de empezar.
+  - **La seña congela el precio.** Si al 16/11 una inscripción de preventa no tiene la seña, pasa sola al precio regular (con la inscripción a $50.000) y le llega un mail a la familia. Las semanas que se suman después se pagan al valor vigente.
+  - ⚠ **Precio regular desde el 16/11:** el folleto solo dice que "los valores aumentan". Cargué la preventa sin el 15% (Mañana $105.000 / $200.000 / $840.000; Tarde $94.000 / $180.000 / $756.000; Completa $189.000 / $359.000 / $1.512.000). Hay que confirmarlo.
+  - ⚠ **Días sueltos:** el folleto no los tiene. Quedaron a $27.000 (Mañana), $24.000 (Tarde) y $48.000 (Completa) de preventa, a confirmar.
+  - ⚠ **Colonia Dewey:** usa los mismos valores hasta que pasen los suyos.
+- **Efectivo y transferencia:** en preventa valen lo mismo, como dice el folleto. Desde el 16/11, transferencia y Mercado Pago pagan el recargo que se ponga en Ajustes.
+- **Estética:** la de la campaña. Azul pileta, azul marino, tarjetas blancas con borde marino y los colores de "VERANO". Títulos en **Lilita One** y texto en **Archivo**.
 
 ### Roles del equipo
 Cada persona se carga una vez en **Administración → Equipo** con su mail, sede y **rol**. Cuando entra a la app, ve solo lo que le corresponde:
